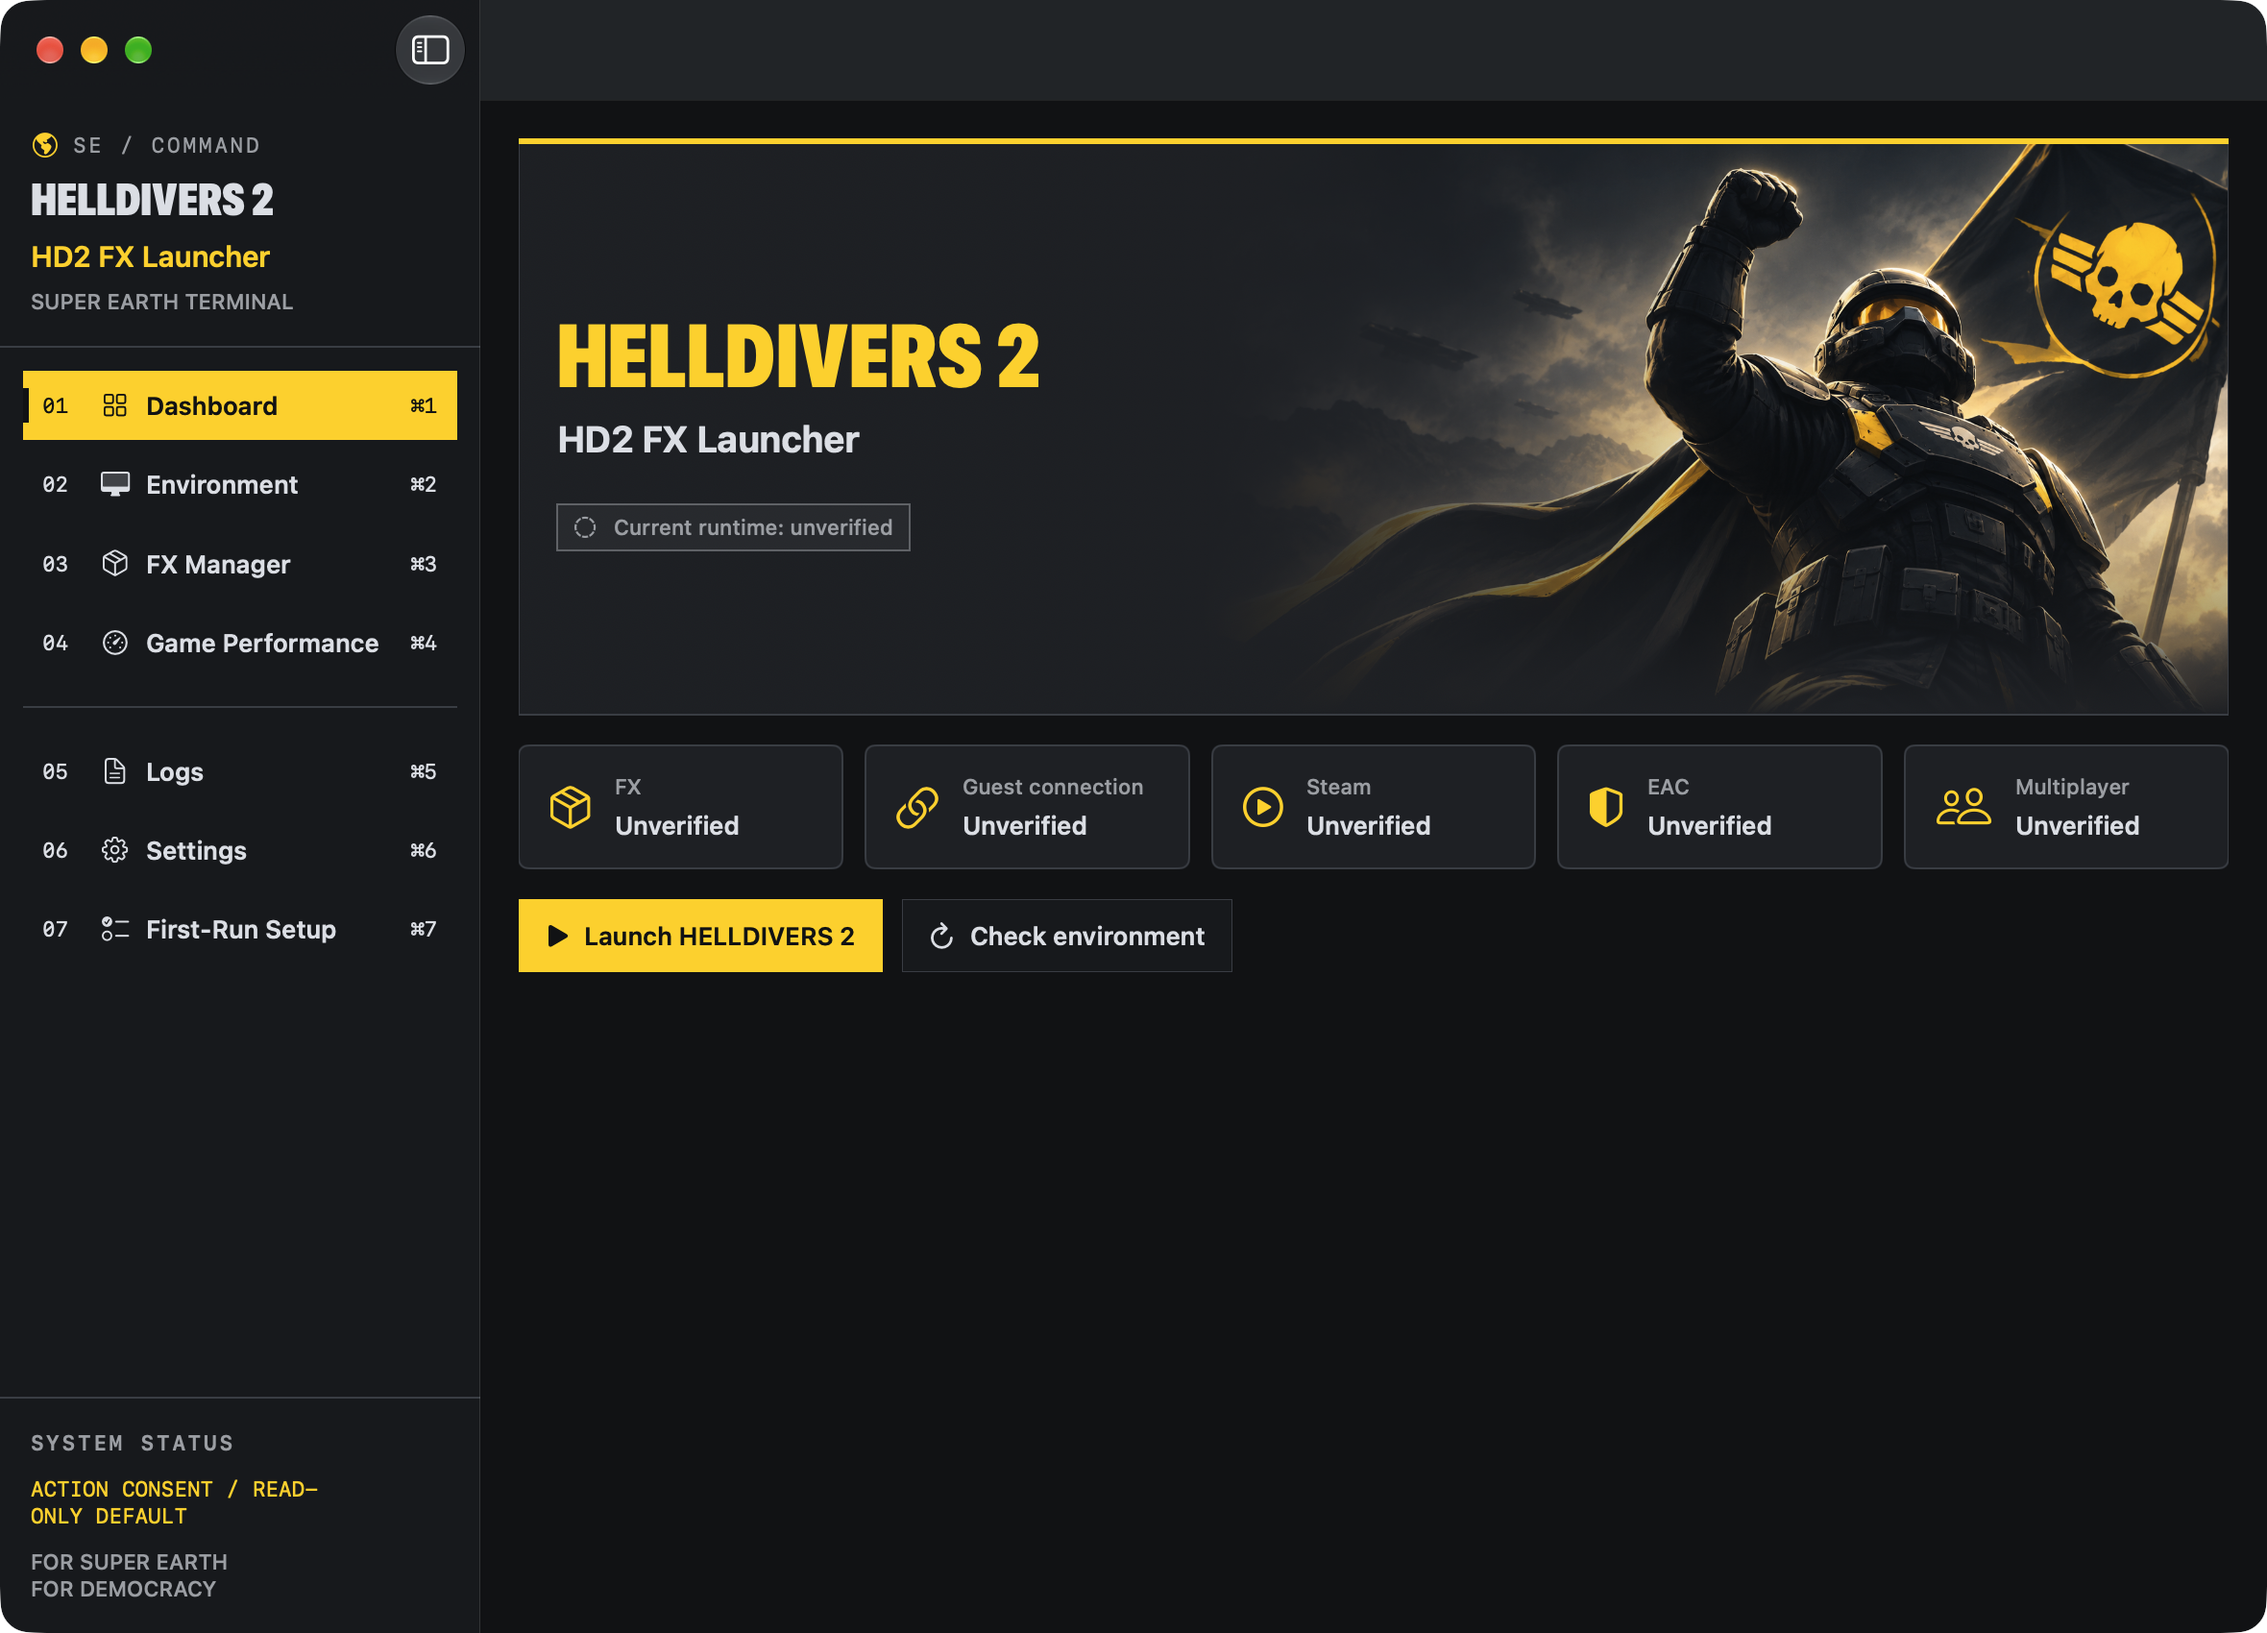
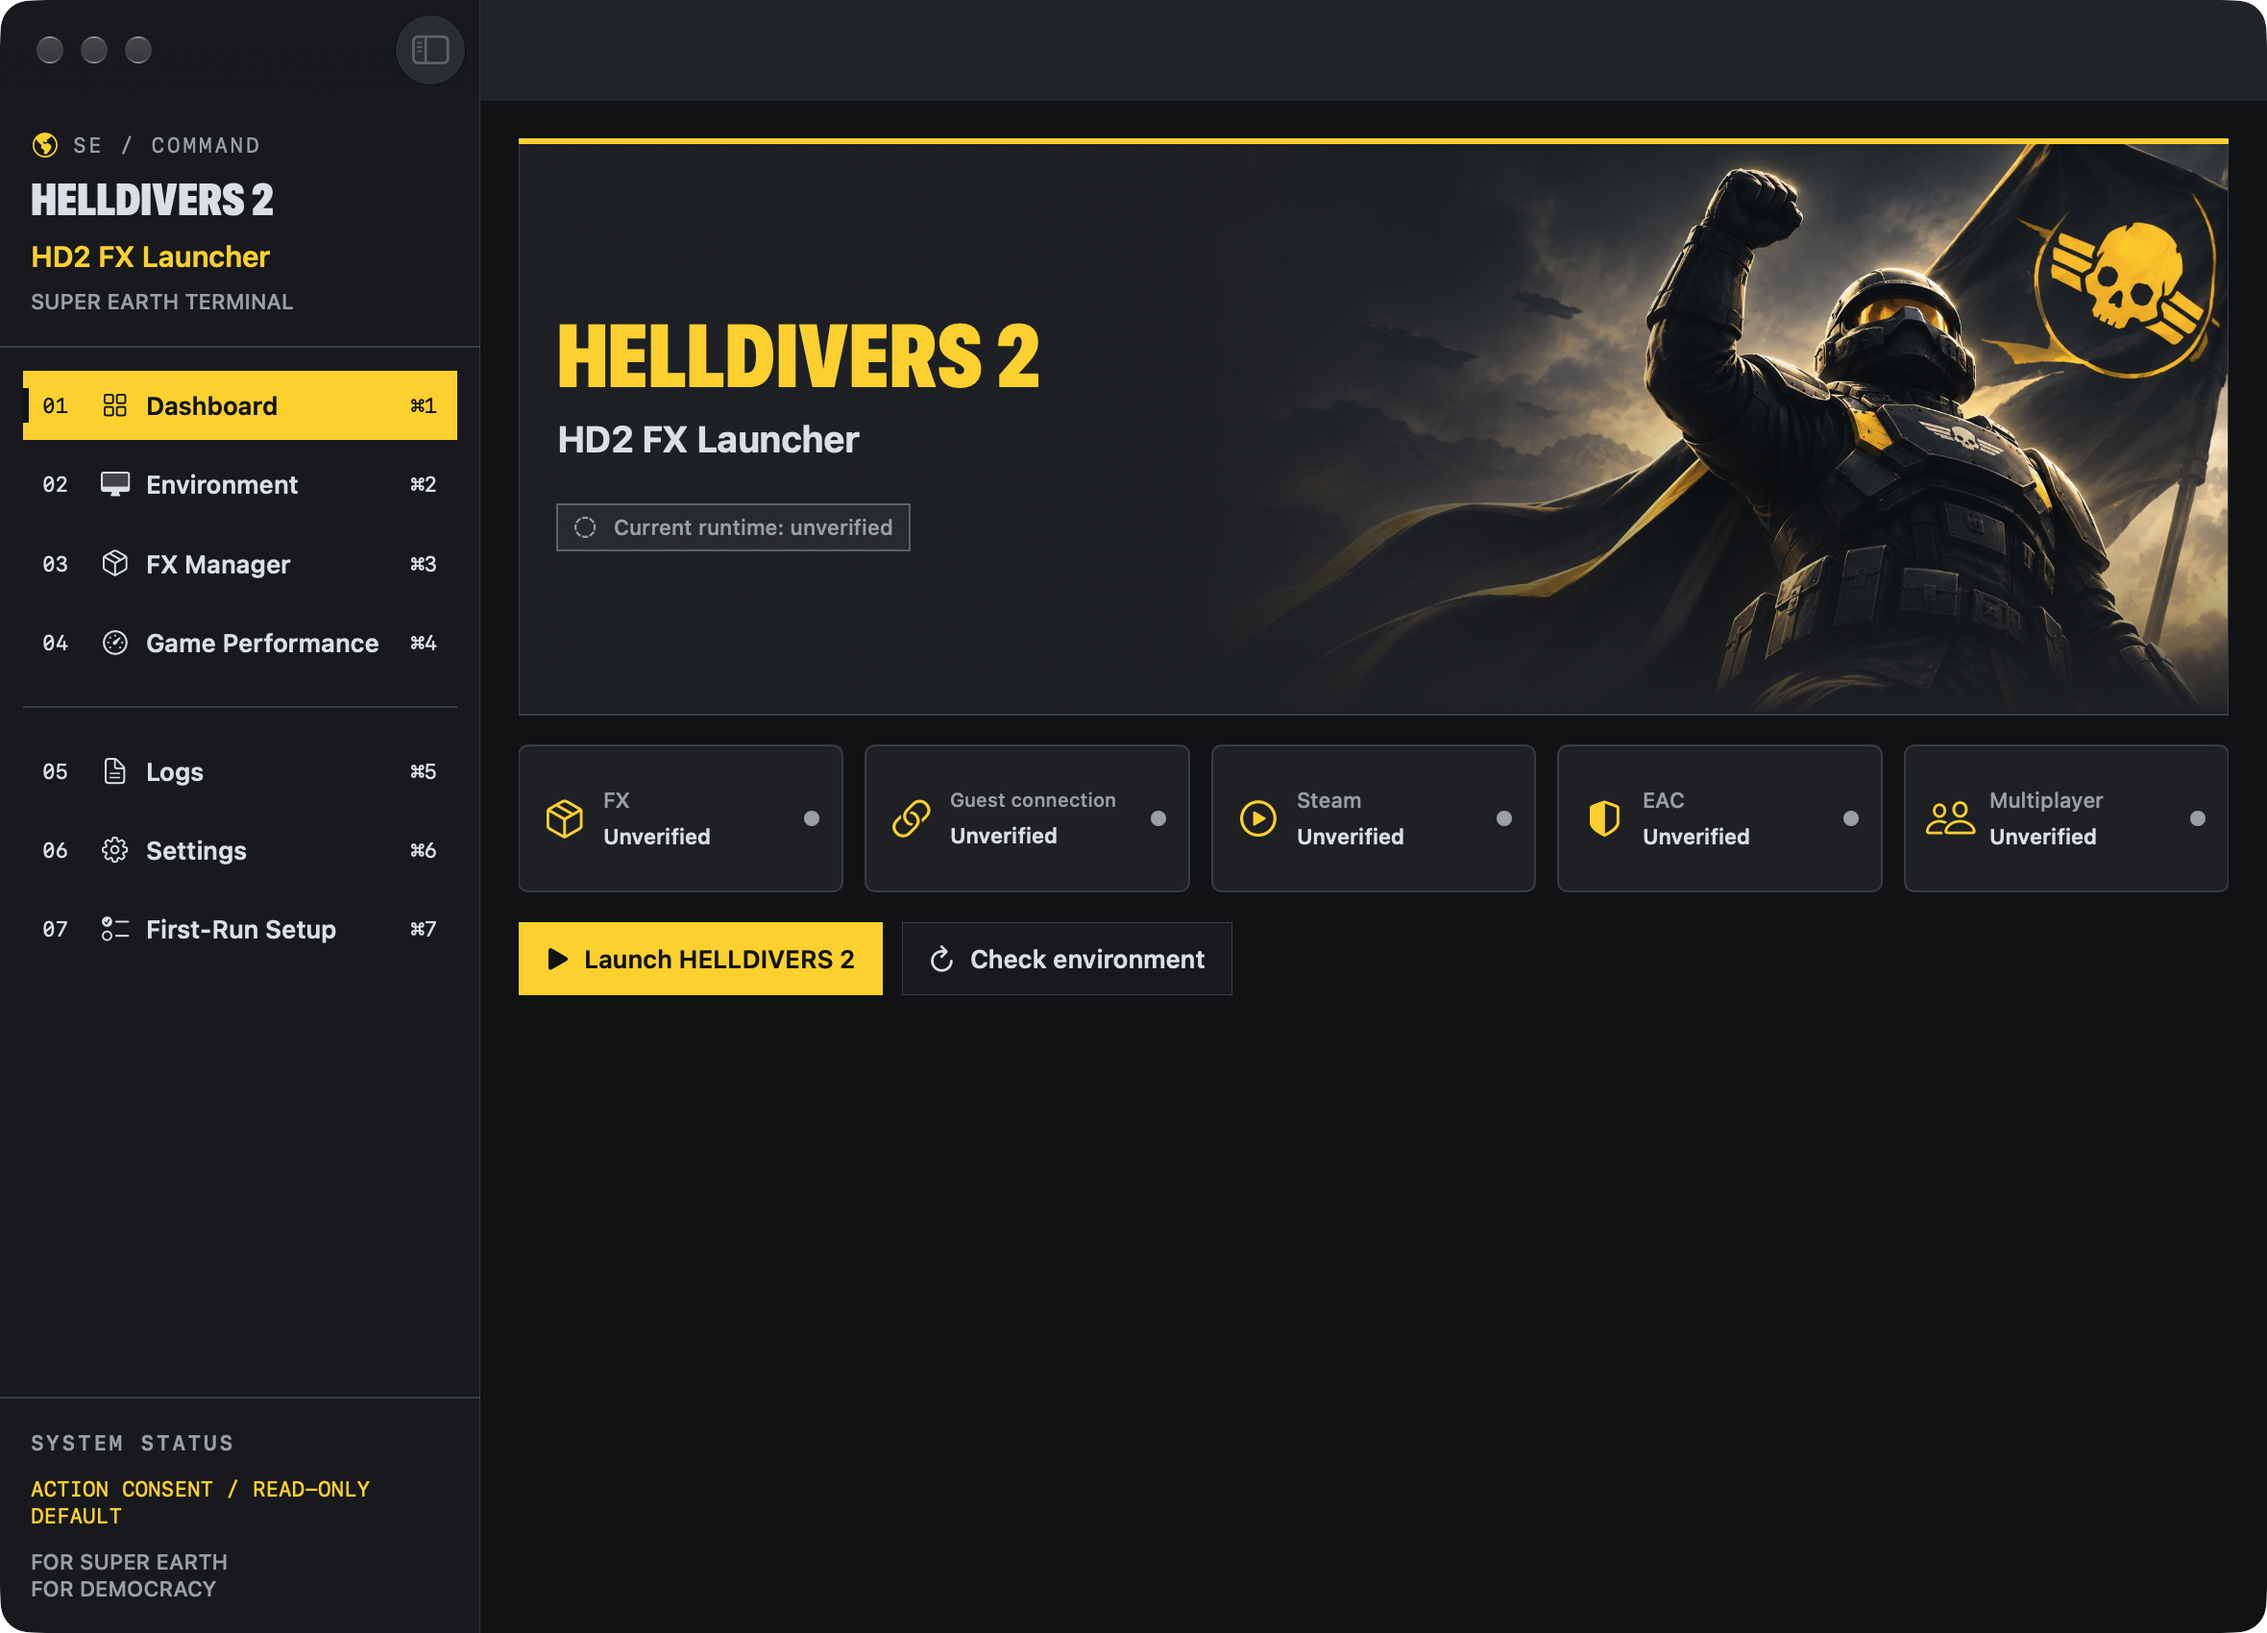
test: verify dashboard LED priorities and refresh captures

diff --git a/native-app/Views/DashboardView.swift b/native-app/Views/DashboardView.swift
@@ -44,7 +44,7 @@ struct DashboardView: View {
         let detectedEAC = false // A completed check does not by itself prove EAC loaded.
         let detected = !state.stale && ((key == "fx_host_running" && state.latestGUIEvidence[key]?.boolean == true)
             || (key == "steam_running" && (state.latestGUIEvidence[key]?.boolean == true || (state.latestGUIEvidence["steam_process_count"]?.integer ?? 0) > 0)))
-        let tone: DashboardLED.Tone = processing ? .working : failed ? .failed : (connected || detectedEAC) ? .success : .unknown
+        let tone = DashboardLED.resolve(processing: processing, failed: failed, confirmed: connected || detectedEAC)
         let text = processing ? state.t("ui.157") : failed ? state.t("ui.125") : connected ? state.t("ui.dashboard.connected") : detectedEAC ? state.t("ui.dashboard.loaded") : detected ? state.t("ui.dashboard.process") : unverified
         return DashboardStatusCard(title: title, value: text, symbol: symbol, tone: tone)
     }
@@ -91,7 +91,7 @@ private struct DashboardStatusCard: View {
         HStack(spacing: 8) {
             Image(systemName: symbol).font(.system(size: 19)).frame(width: 24).foregroundStyle(c.accent).accessibilityHidden(true)
             VStack(alignment: .leading, spacing: 5) {
-                Text(title).font(TacticalTypography.caption).foregroundStyle(c.muted).lineLimit(1)
+                Text(title).font(TacticalTypography.caption).foregroundStyle(c.muted).lineLimit(1).minimumScaleFactor(0.7)
                 Text(value).font(TacticalTypography.caption.weight(.semibold)).foregroundStyle(c.text).lineLimit(2).minimumScaleFactor(0.8)
             }
             Spacer(minLength: 0)
@@ -105,6 +105,11 @@ private struct DashboardStatusCard: View {
 
 private struct DashboardLED: View {
     enum Tone { case success, working, failed, unknown }
+    static func resolve(processing: Bool, failed: Bool, confirmed: Bool) -> Tone {
+        if processing { return .working }
+        if failed { return .failed }
+        return confirmed ? .success : .unknown
+    }
     let tone: Tone
     @Environment(\.accessibilityReduceMotion) private var reduceMotion
     @Environment(\.colorScheme) private var scheme

diff --git a/native-app/checks/dashboard_led_checks.py b/native-app/checks/dashboard_led_checks.py
@@ -1,0 +1,27 @@
+#!/usr/bin/env python3
+"""Exercise the exact Swift LED priority function with all input combinations."""
+from pathlib import Path
+import re, subprocess, tempfile
+source = (Path(__file__).resolve().parents[1] / 'Views/DashboardView.swift').read_text()
+match = re.search(r'    static func resolve\(processing: Bool, failed: Bool, confirmed: Bool\) -> Tone \{.*?\n    \}', source, re.S)
+assert match
+assert 'let detectedEAC = false' in source
+assert 'statusCard(state.t("ui.191"), "person.2", "multiplayer", nil)' in source
+assert 'let tone = DashboardLED.resolve(processing: processing, failed: failed, confirmed: connected || detectedEAC)' in source
+swift = '''enum Tone { case success, working, failed, unknown }
+struct DashboardLED {
+''' + match.group(0) + '''
+}
+for processing in [false, true] {
+ for failed in [false, true] {
+  for confirmed in [false, true] {
+   let expected: Tone = processing ? .working : failed ? .failed : confirmed ? .success : .unknown
+   precondition(DashboardLED.resolve(processing: processing, failed: failed, confirmed: confirmed) == expected)
+  }
+ }
+}
+print("PASS: 8 LED priority combinations; EAC and multiplayer cannot imply success")
+'''
+with tempfile.TemporaryDirectory() as directory:
+    path=Path(directory)/'matrix.swift'; path.write_text(swift)
+    subprocess.run(['swift',str(path)],check=True)

diff --git a/README.md b/README.md
@@ -22,17 +22,9 @@ FX 1.9.9 test-Guest repair now reaches the game through the GUI with the histori
 
 Dashboard screenshot update for the status indicators is pending; the images below are historical Debug captures.
 
-These are real windows from different historical Debug builds, **not final v1.0.0 screenshots**. Final captures must be taken, reviewed and replaced after the final build; see [capture provenance](docs/images/README.md).
+The Dashboard screenshot is from the current isolated Debug candidate; other page captures are pending review and are not shown here. It does not establish game or network readiness.
 
-| Dashboard | First-Run Setup |
-| --- | --- |
-| ![Dashboard](docs/images/en/dashboard.png) | ![First-Run Setup](docs/images/en/first-run-setup.png) |
-| Environment | FX Manager |
-| ![Environment](docs/images/en/environment.png) | ![FX Manager](docs/images/en/fx-manager.png) |
-| Game Performance | Settings |
-| ![Game Performance](docs/images/en/performance.png) | ![Settings](docs/images/en/settings.png) |
-| Logs | |
-| ![Logs](docs/images/en/logs.png) | |
+![Dashboard](docs/images/en/dashboard.png)
 
 ### Features
 

diff --git a/docs/images/README.md b/docs/images/README.md
@@ -49,3 +49,5 @@ Build 2026110410: real isolated Debug windows for zh-CN/en First-Run Setup, Dash
 2026-11-14 integration review: seven pages per language were recaptured from the real integration Debug build (08e58e4 plus FEX changes subsequently committed as 34fff90). Correct-language page pairs were reviewed together. No Guest action or credential autoload occurred. Final v1.0.0 Release captures remain pending.
 
 2026-11-14 整合审核：两种语言各七页已从真实整合 Debug 构建重拍（08e58e4 加随后提交为 34fff90 的 FEX 改动），逐对检查语言。未操作 Guest 或自动加载凭据。正式 Release 截图仍待完成。
+
+2026-11-14 LED integration: only the two Dashboard images are presented in README and visually reviewed for language, clipping, sensitive data and honest unknown indicators. Captured from isolated Debug build 2026111401, base 58df1a8 plus the documented LED priority and title sizing edits; no Guest actions or credential autoload. Other page images remain historical and are not presented pending review. Fingerprint applies to the current source for the displayed Dashboard scope only.

diff --git a/docs/DEVELOPMENT_STATUS.md b/docs/DEVELOPMENT_STATUS.md
@@ -132,3 +132,7 @@ GitHub main 的源码、AGENTS.md 和本文件/交接文档是权威。聊天不
 ## 应用名称统一 · 2026-11-14
 
 简体、繁体名称与其他语言英文名称已统一；保留内部 App 文件名、Bundle ID 和数据位置。v1.0.0 更新服务未配置，不能据更名推断自动升级可用；实际升级验收仍待完成。截图为历史构建，更新后的真实截图待采集。
+
+首页 LED 整合：品牌 main 已包含，状态颜色组合隔离验证，中英文首页 Debug 截图已更新；其他页面截图待复核。EAC/联机未做实机验证。
+
+未完成：LED 八种布尔组合仅验证纯逻辑优先级，未完成真实状态注入的界面颜色矩阵及运行时动态验证；FX/Steam 进程检测仅显示灰色“已检测到进程”，不能当作完整就绪。完成矩阵及审核后才可晋级 main。

diff --git a/docs/NATIVE_APP_DEVELOPMENT_HANDOFF.md b/docs/NATIVE_APP_DEVELOPMENT_HANDOFF.md
@@ -168,3 +168,7 @@ FX 1.9.9 的 RootFS 丢失点已在 Steam Runtime 内复现，当前测试 Guest
 ## 应用名称统一 · 2026-11-14
 
 简体、繁体名称与其他语言英文名称已统一；保留内部 App 文件名、Bundle ID 和数据位置。v1.0.0 更新服务未配置，不能据更名推断自动升级可用；实际升级验收仍待完成。截图为历史构建，更新后的真实截图待采集。
+
+首页 LED 整合：品牌 main 已包含，状态颜色组合隔离验证，中英文首页 Debug 截图已更新；其他页面截图待复核。EAC/联机未做实机验证。
+
+未完成：LED 八种布尔组合仅验证纯逻辑优先级，未完成真实状态注入的界面颜色矩阵及运行时动态验证；FX/Steam 进程检测仅显示灰色“已检测到进程”，不能当作完整就绪。完成矩阵及审核后才可晋级 main。
